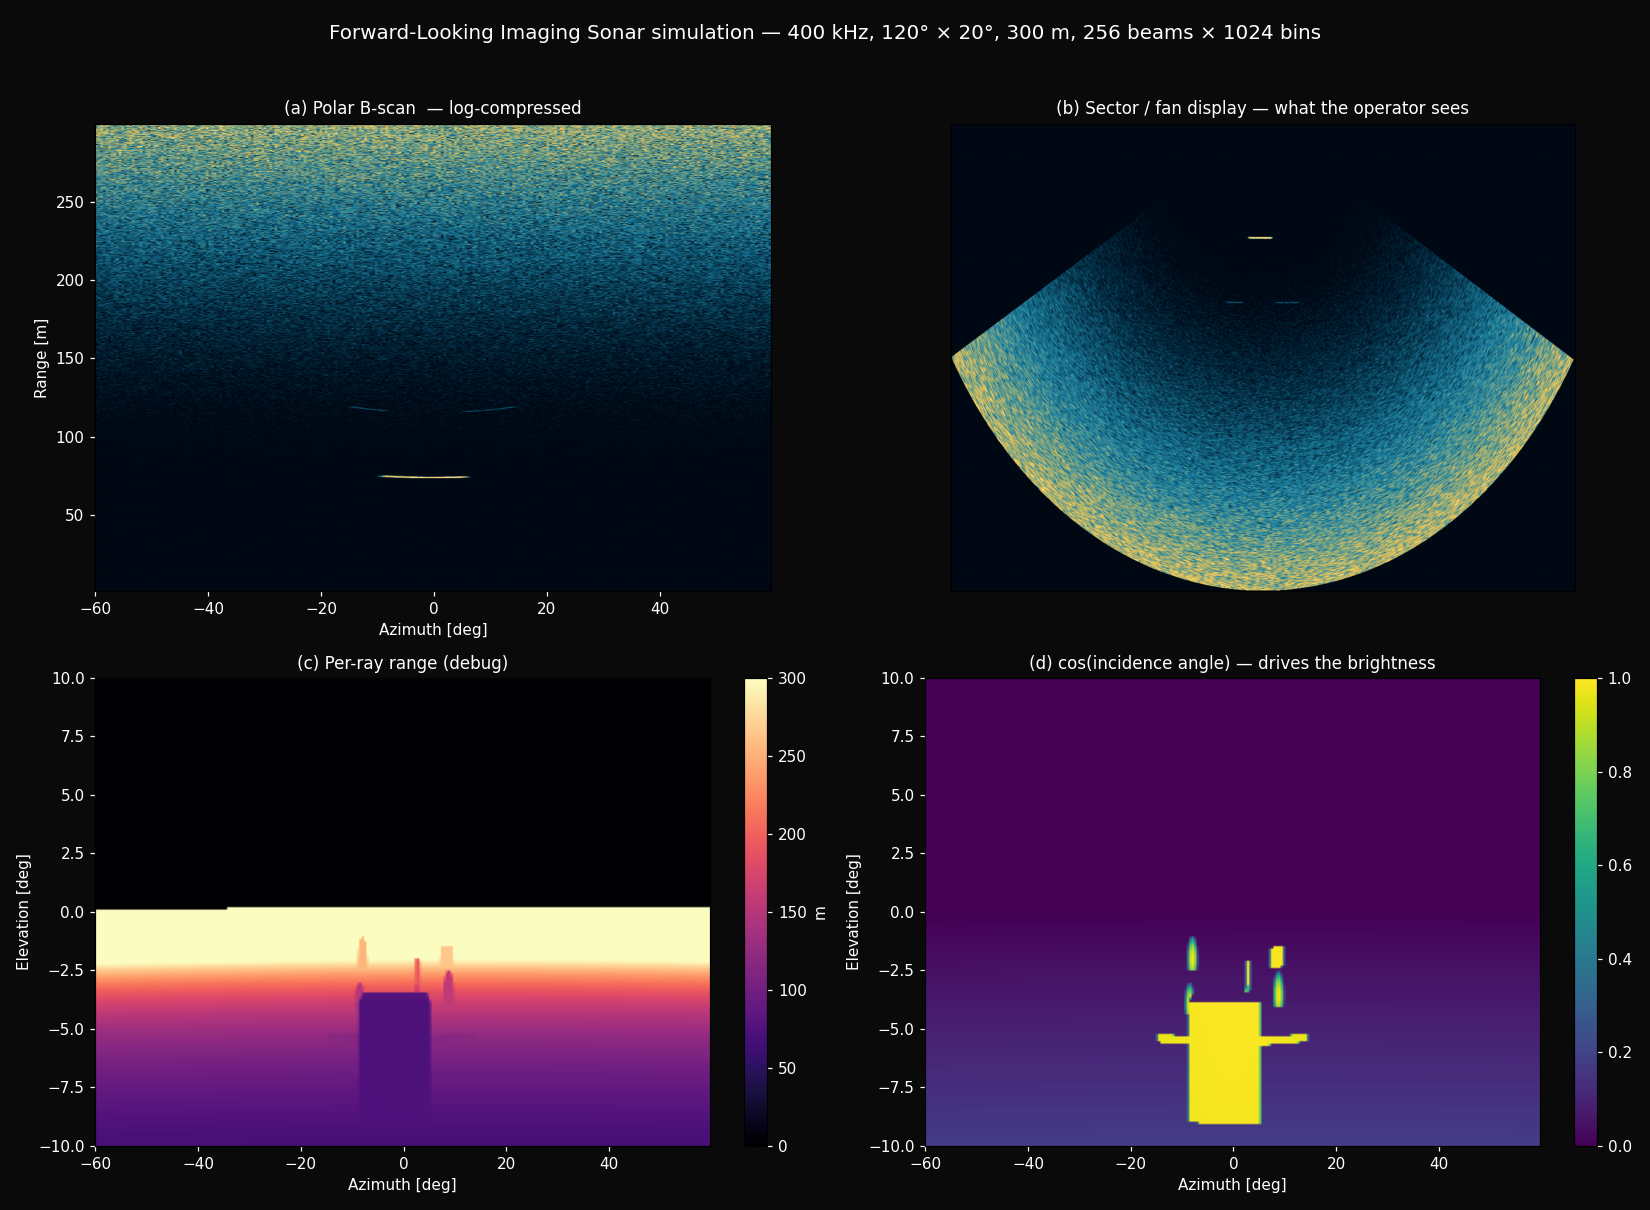
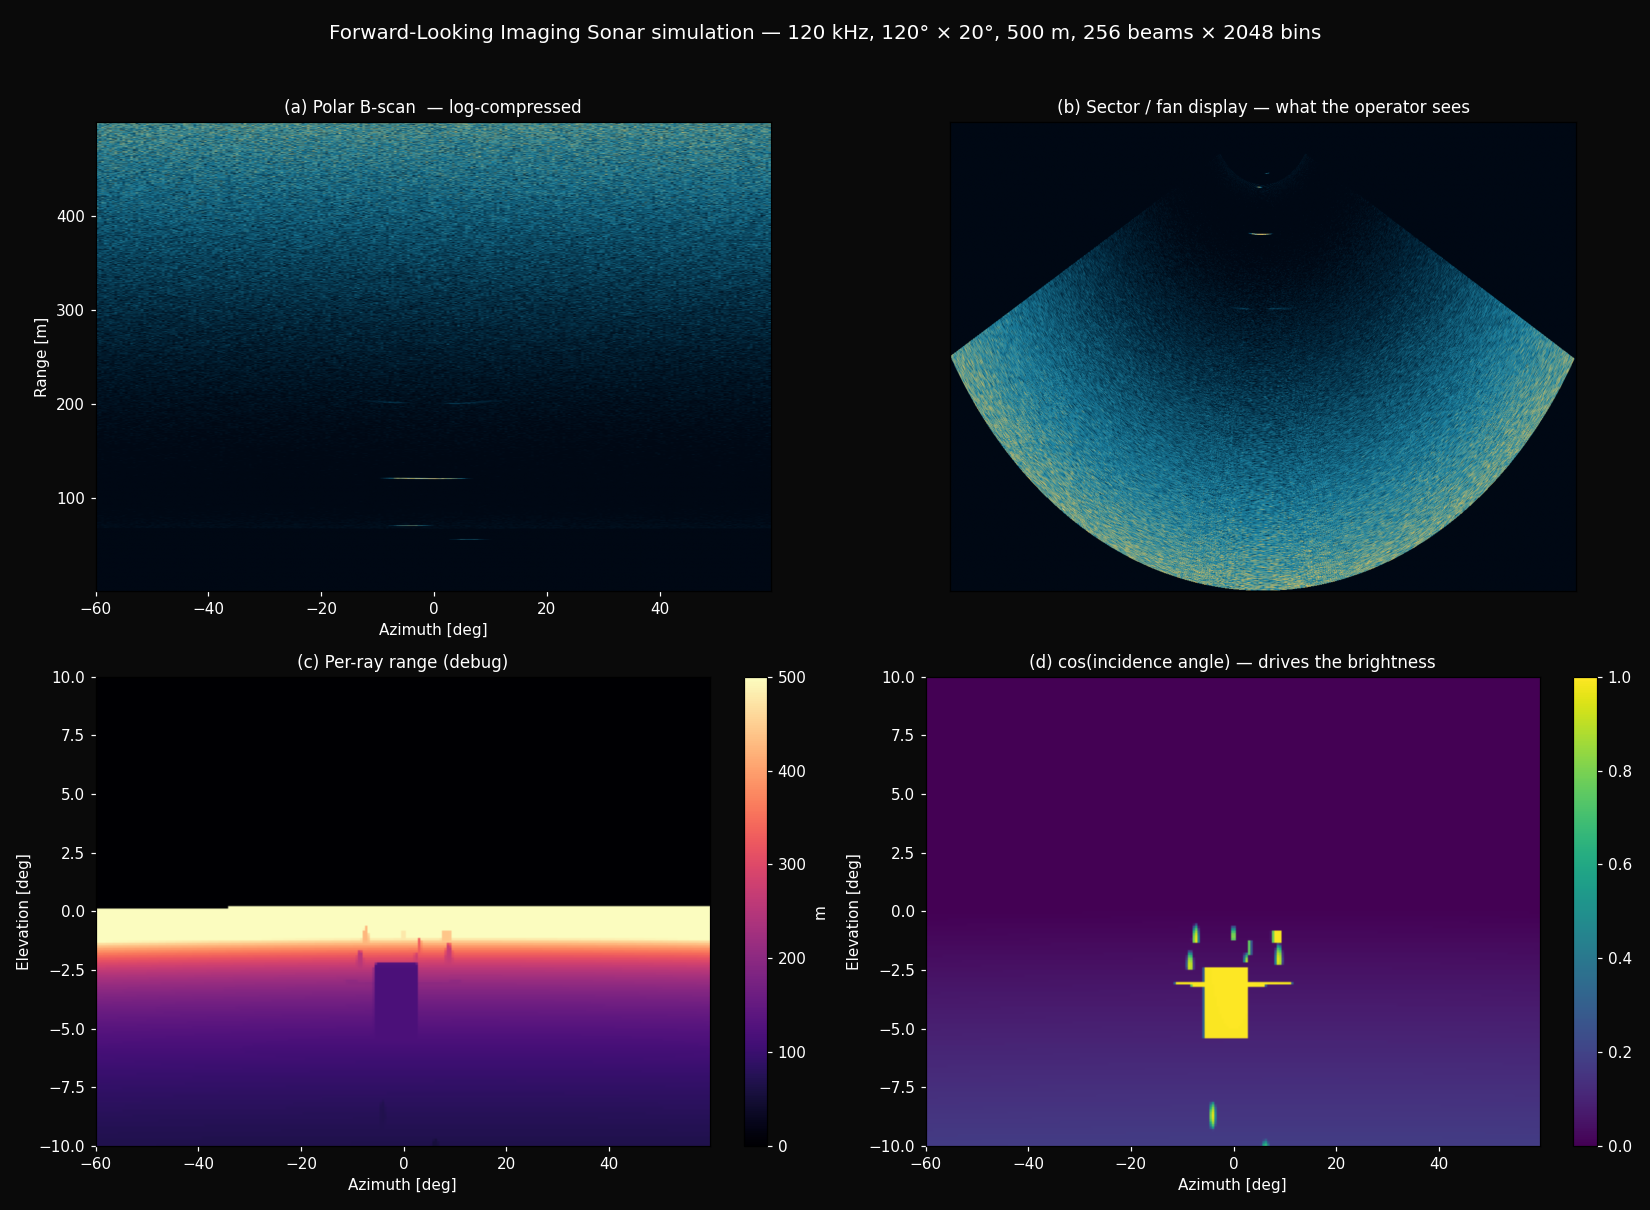
Retune defaults for 120 kHz / 500 m long-range FLS
- SonarConfig: freq 400→120 kHz, range 300→500 m, range bins 1024→2048,
  pulse 100→300 us, beamwidth_h 1.0→3.0 deg, with updated docstring and
  real-system reference comments (Kongsberg Mesotech, Tritech SeaKing).
- AnalyticalScene: scene objects pushed out to populate the 500 m range,
  with a new far-edge target near 480 m.
- demo_synthetic: matching overrides plus pulse_length_s; fixed hardcoded
  /home/claude/ output paths to write into the cwd.
- README: updated absorption / range numbers (44 dB/km at 120 kHz, 108 dB
  spreading at 500 m) and beamwidth reference.
- Regenerated fls_demo.png and fls_fan.png with the new config.

diff --git a/sonar_sim.py b/sonar_sim.py
@@ -45,28 +45,32 @@ from typing import Tuple, Optional, Callable
 class SonarConfig:
     """Configuration for a forward-looking imaging sonar.
 
-    Defaults are sized for a long-range FLS targeting ~300 m, similar in
-    spirit to a Sound Metrics ARIS Long Range, BlueView P450 long range,
-    or Sonardyne Solstice. Real ~50 m FLS like the DIDSON / Gemini 720 use
-    much higher frequencies (~1.2 MHz) and shorter range bins.
+    Defaults are sized for a long-range FLS at 120 kHz targeting ~500 m,
+    in the spirit of long-range imaging / obstacle-avoidance sonars
+    (e.g. Kongsberg Mesotech 120 kHz family, Tritech SeaKing long-range).
+    Higher-frequency systems trade range for resolution: Tritech Gemini
+    720i (720 kHz, ~120 m), Sound Metrics ARIS (~1.8 MHz, ~30 m).
     """
     # ---- Geometry ----
     range_min_m:     float = 1.0
-    range_max_m:     float = 300.0
-    num_range_bins:  int   = 1024     # → ~29 cm bin spacing
+    range_max_m:     float = 500.0
+    num_range_bins:  int   = 2048     # → ~24 cm bin spacing, matches pulse cell
     fov_h_deg:       float = 120.0    # horizontal sector width (azimuth)
     fov_v_deg:       float = 20.0     # vertical aperture (elevation)
     num_beams:       int   = 256      # azimuth bins displayed
 
     # ---- Acoustic / signal ----
-    freq_kHz:        float = 400.0    # 400 kHz is a sweet spot for ~300 m
-    pulse_length_s:  float = 100e-6   # → 7.5 cm range cell at c=1500
+    freq_kHz:        float = 120.0    # 120 kHz: ~44 dB/km absorption, good to ~500 m
+    pulse_length_s:  float = 300e-6   # → 22.5 cm range cell at c=1500
     sound_speed:     float = 1500.0
 
-    # Per-beam directivity (3dB widths). Real arrays:
-    #  Tritech Gemini 720i: 0.5° H × 20° V
-    #  ARIS 1200:          ~0.3° H × 14° V
-    beamwidth_h_deg: float = 1.0
+    # Per-beam directivity (3dB widths). Real arrays at this frequency band:
+    #  Kongsberg Mesotech 1071 (~120 kHz): ~3° H × 20° V
+    #  Tritech SeaKing 120 kHz long-range: ~3° H
+    # For comparison higher-freq imaging arrays are much narrower:
+    #  Tritech Gemini 720i (720 kHz):  0.5° H × 20° V
+    #  ARIS 1200          (1.2 MHz):  ~0.3° H × 14° V
+    beamwidth_h_deg: float = 3.0
     beamwidth_v_deg: float = 20.0
 
     # ---- Sampling resolution for ray grid ----
@@ -299,50 +303,55 @@ class AnalyticalScene:
         self.objects = [
             # Small debris near field
             SceneObject('sphere',
-                        dict(centre=np.array([35.0,   4.0, -10.5]), radius=1.0),
+                        dict(centre=np.array([55.0,   6.0, -10.5]), radius=1.0),
                         dict(mu_diff=0.85, mu_spec=0.7, n_spec=12)),
             SceneObject('sphere',
-                        dict(centre=np.array([42.0,  -3.0, -10.8]), radius=0.8),
+                        dict(centre=np.array([70.0,  -5.0, -10.8]), radius=0.8),
                         dict(mu_diff=0.85, mu_spec=0.7, n_spec=12)),
 
-            # Wreck-like rectangular structure at 75 m, sitting on seafloor,
-            # raised ~5 m off floor. Strong return.
+            # Wreck-like rectangular structure at ~125 m, sitting on seafloor,
+            # raised off floor. Strong return.
             SceneObject('box',
-                        dict(centre=np.array([78.0,  -2.0, -8.5]),
+                        dict(centre=np.array([125.0, -3.0, -8.5]),
                              half=np.array([5.0, 9.0, 3.5])),
                         dict(mu_diff=0.95, mu_spec=0.9, n_spec=20)),
 
-            # Pipeline crossing the scene at ~115m, 60 m long across azimuth
+            # Pipeline crossing the scene at ~200 m, 80 m long across azimuth
             SceneObject('box',
-                        dict(centre=np.array([115.0, 0.0, -11.4]),
-                             half=np.array([0.6, 30.0, 0.6])),
+                        dict(centre=np.array([200.0, 0.0, -11.4]),
+                             half=np.array([0.8, 40.0, 0.8])),
                         dict(mu_diff=1.0, mu_spec=1.0, n_spec=8)),
 
-            # Boulder field at 150 m
+            # Boulder field at ~270 m
             SceneObject('sphere',
-                        dict(centre=np.array([150.0, -22.0, -10.5]), radius=2.5),
+                        dict(centre=np.array([255.0, -38.0, -10.5]), radius=3.0),
                         dict(mu_diff=0.85, mu_spec=0.6, n_spec=10)),
             SceneObject('sphere',
-                        dict(centre=np.array([158.0,  25.0, -10.0]), radius=3.0),
+                        dict(centre=np.array([270.0,  42.0, -10.0]), radius=3.5),
                         dict(mu_diff=0.85, mu_spec=0.6, n_spec=10)),
             SceneObject('sphere',
-                        dict(centre=np.array([165.0,   8.0, -10.6]), radius=1.6),
+                        dict(centre=np.array([280.0,  12.0, -10.6]), radius=2.0),
                         dict(mu_diff=0.85, mu_spec=0.6, n_spec=10)),
 
-            # Container-like long target at 195 m, broadside-on
+            # Container-like long target at ~330 m, broadside-on
             SceneObject('box',
-                        dict(centre=np.array([195.0,  10.0, -9.5]),
+                        dict(centre=np.array([330.0,  18.0, -9.5]),
                              half=np.array([6.0, 1.2, 2.5])),
                         dict(mu_diff=0.9, mu_spec=0.8, n_spec=18)),
 
-            # Distant cluster at edge of operating range
+            # Distant cluster at ~430 m
             SceneObject('sphere',
-                        dict(centre=np.array([255.0, -35.0, -9.0]), radius=4.5),
+                        dict(centre=np.array([425.0, -55.0, -9.0]), radius=5.0),
                         dict(mu_diff=0.85, mu_spec=0.6, n_spec=8)),
             SceneObject('box',
-                        dict(centre=np.array([265.0,  40.0, -9.5]),
-                             half=np.array([3.5, 6.0, 2.5])),
+                        dict(centre=np.array([440.0,  65.0, -9.5]),
+                             half=np.array([4.0, 7.0, 3.0])),
                         dict(mu_diff=0.9, mu_spec=0.8, n_spec=14)),
+
+            # Far edge of operating range (~480 m)
+            SceneObject('sphere',
+                        dict(centre=np.array([480.0,   0.0, -9.0]), radius=4.0),
+                        dict(mu_diff=0.85, mu_spec=0.6, n_spec=8)),
         ]
 
     def trace(self, origin: np.ndarray, dirs: np.ndarray

diff --git a/demo_synthetic.py b/demo_synthetic.py
@@ -20,13 +20,14 @@ sonar_cmap = LinearSegmentedColormap.from_list(
 
 def main():
     cfg = SonarConfig()
-    cfg.freq_kHz = 400.0
-    cfg.range_max_m = 300.0
-    cfg.num_range_bins = 1024
+    cfg.freq_kHz = 120.0
+    cfg.range_max_m = 500.0
+    cfg.num_range_bins = 2048
     cfg.num_beams = 256
     cfg.fov_h_deg = 120.0
     cfg.fov_v_deg = 20.0
-    cfg.beamwidth_h_deg = 1.0
+    cfg.beamwidth_h_deg = 3.0
+    cfg.pulse_length_s = 300e-6
     cfg.speckle_looks = 4
     cfg.az_samples_per_beam = 4
     cfg.el_samples = 192
@@ -135,7 +136,7 @@ def main():
         color='w', fontsize=13, y=0.98)
     plt.tight_layout(rect=[0, 0, 1, 0.96])
 
-    out_path = "/home/claude/fls_demo.png"
+    out_path = "fls_demo.png"
     plt.savefig(out_path, dpi=110, facecolor='#0a0a0a')
     print(f"  wrote {out_path}")
 
@@ -147,7 +148,7 @@ def main():
     ax.set_xticks([]); ax.set_yticks([])
     ax.set_facecolor('k')
     plt.tight_layout()
-    fan_path = "/home/claude/fls_fan.png"
+    fan_path = "fls_fan.png"
     plt.savefig(fan_path, dpi=120, facecolor='#0a0a0a')
     print(f"  wrote {fan_path}")
 

diff --git a/README.md b/README.md
@@ -1,6 +1,6 @@
 # Forward-Looking Imaging Sonar simulator
 
-A physics-driven Python prototype of a forward-looking imaging sonar (FLS) — the kind of sensor that produces a polar fan image like a Tritech Gemini, Sound Metrics ARIS, or BlueView. Aimed at ~300 m range, accuracy over realtime, and with a clear path to plug into your Unreal Engine pipeline.
+A physics-driven Python prototype of a forward-looking imaging sonar (FLS) — the kind of sensor that produces a polar fan image. Defaults are sized for a long-range 120 kHz system (e.g. Kongsberg Mesotech 1071, Tritech SeaKing long-range) reaching ~500 m, but the same pipeline applies at higher frequencies for shorter-range / higher-resolution systems like Tritech Gemini, Sound Metrics ARIS, or BlueView. Aimed at accuracy over realtime, with a clear path to plug into your Unreal Engine pipeline.
 
 ## Files
 
@@ -29,9 +29,9 @@ Here's the gap, in roughly the order it matters for "looking right":
 
 **4. Speckle, not Gaussian noise.** The grainy texture of a sonar image is *coherent speckle* — a multiplicative random process with a Gamma/Rayleigh distribution, not additive Gaussian noise. You see it because each resolution cell is the coherent sum of many scatterers with random phase. If you add Gaussian noise on top of a clean depth image you get a noisy depth image, not a sonar image.
 
-**5. Two-way transmission loss.** Sound at 400 kHz attenuates ~106 dB/km in seawater (Francois–Garrison formula), plus geometric spreading. So 300 m is ~64 dB of two-way absorption *plus* `40 log₁₀(300) ≈ 99 dB` of point-target spreading — operators counter this with TVG (time-varied gain). You need both pieces, otherwise far-range looks wrong.
+**5. Two-way transmission loss.** Sound at 120 kHz attenuates ~44 dB/km in seawater (Francois–Garrison formula), plus geometric spreading. So 500 m is ~44 dB of two-way absorption *plus* `40 log₁₀(500) ≈ 108 dB` of point-target spreading — operators counter this with TVG (time-varied gain). You need both pieces, otherwise far-range looks wrong. (Going to 400 kHz roughly triples the absorption rate, which is why high-frequency systems are short-range.)
 
-**6. Beam pattern.** Each beam isn't a knife-edge — it has a main lobe (Gaussian-ish, ~1° width) and sidelobes (`sinc²`). Bright targets bleed into adjacent beams. Skipping this makes objects look unnaturally crisp.
+**6. Beam pattern.** Each beam isn't a knife-edge — it has a main lobe (Gaussian-ish, ~3° wide at 120 kHz for typical apertures) and sidelobes (`sinc²`). Bright targets bleed into adjacent beams. Skipping this makes objects look unnaturally crisp.
 
 **7. Pulse smearing in range.** Range resolution is `c·τ/2`. A bright target spans more than one range bin because the pulse has finite length.
 
